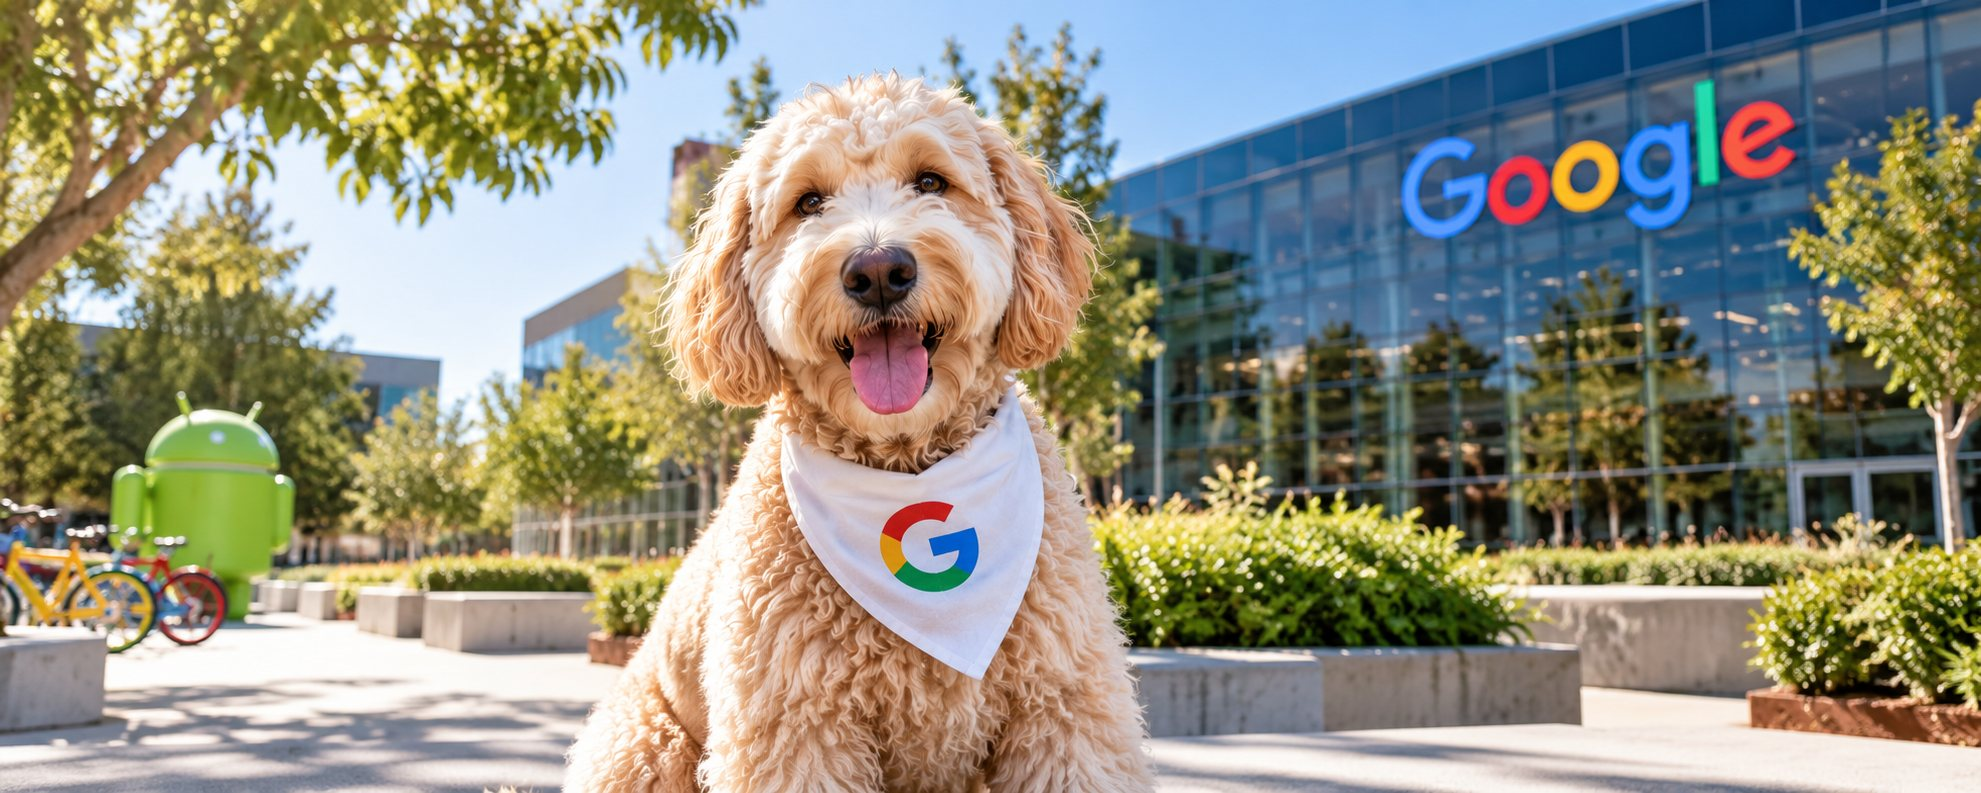
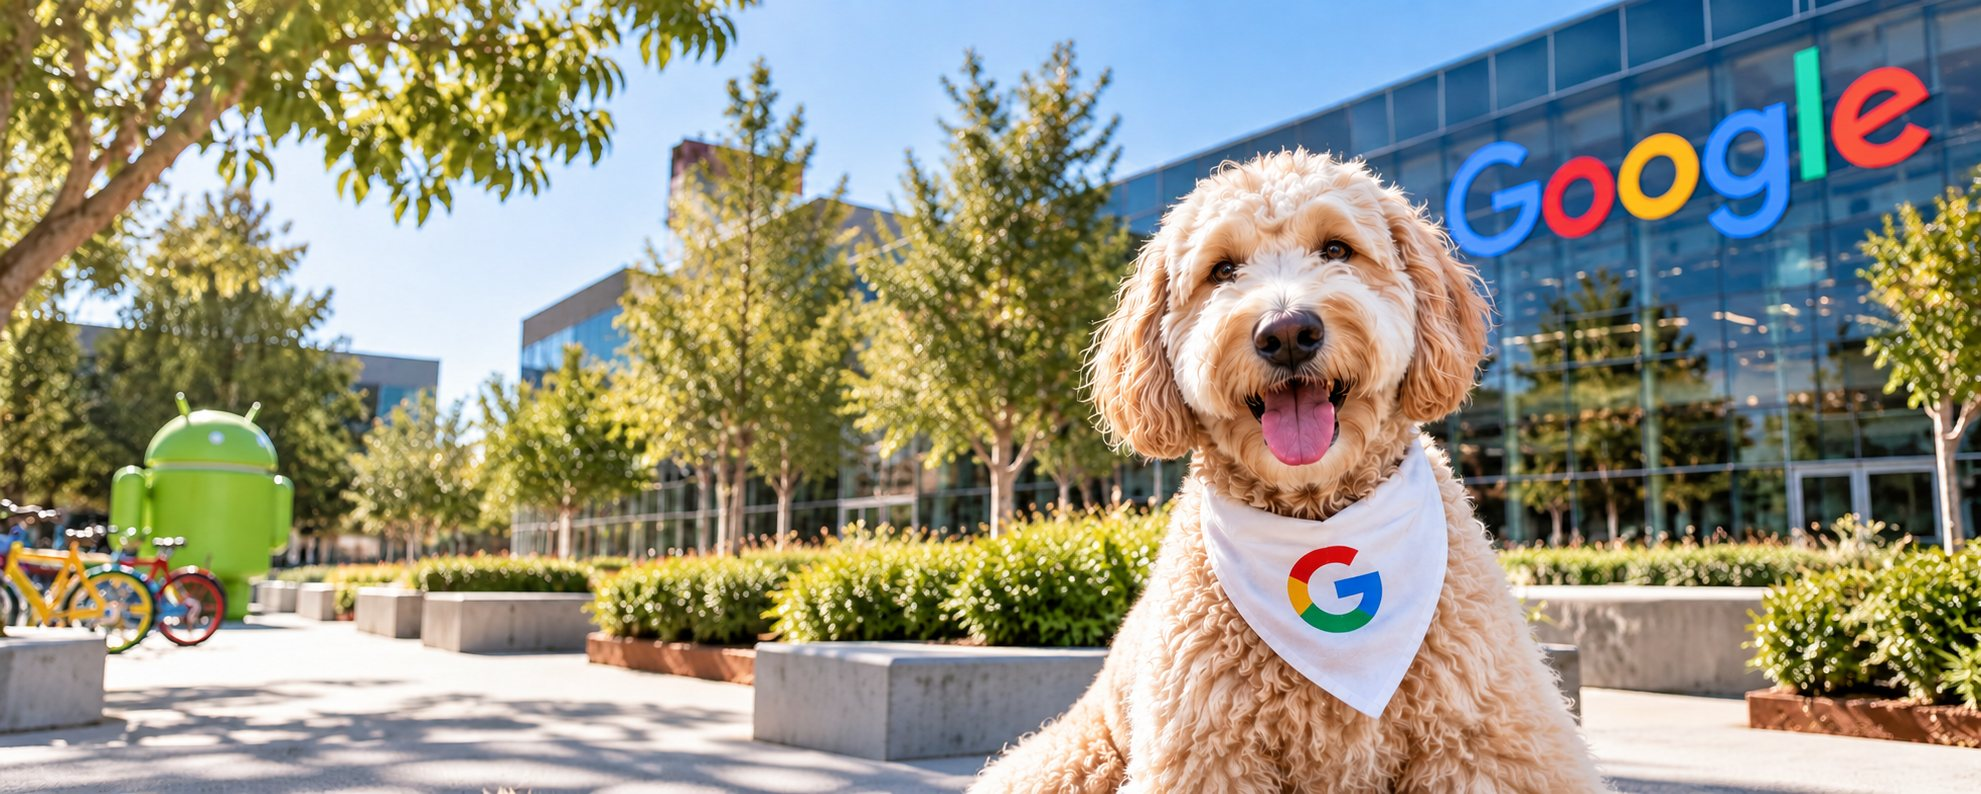
New hero frame; the CEO card, labelled; card order; headline stop
HERO. Re-derived from the replacement doogler_hero.png (1981×794). The dog
now sits right with the plaza open at the left, which is what the copy
overlays, so the scrim no longer has to push the frame across —
background-position goes back to centre. 2.4 MB of PNG → 259 KB of WebP,
with the JPEG twin, and images/social.jpg re-letterboxed from the new
frame onto 1200×630.

THE "BEST WORK PARTNER" CARD now carries images/doogler_photo1.png beside
the quote, across a row of its own — which is what moves "Doogler in
training" down to the line below, as asked.

The picture carries a small AI-GENERATED tag, set ON the image rather than
beside it so it cannot be read apart from what it describes. That label is
the reason the illustration can be here: the quote is genuine and sourced,
but the picture is a generated image of a real, named, living person, and
unlabelled on a page selling a token it is something a viewer would
reasonably take as a real photograph of him with this project. Labelled,
it is an illustration next to a quote anyone can go and check — the three
primary posts are still chips under it, and the card still says the quote
is about his dog and not about this token. His real photographs are on
those posts; this does not stand in for them.

The signature the mockup draws under the quote is still not built.

STONKS LOGO to 36px. HEADLINE loses the full stop after $GOOGL.

AND A REAL BUG, found while stamping: scripts/stamp.mjs rewrote ?v= in
[…]

diff --git a/index.html b/index.html
@@ -59,10 +59,10 @@
 
      The ?v= below is what makes a browser let go of the icon it has cached;
      node scripts/stamp.mjs moves all of them together. -->
-<link rel="icon" href="favicon.ico?v=9" sizes="any">
-<link rel="icon" type="image/png" href="images/favicon.png?v=9">
-<link rel="apple-touch-icon" href="images/apple-touch-icon.png?v=9">
-<link rel="manifest" href="site.webmanifest?v=9">
+<link rel="icon" href="favicon.ico?v=10" sizes="any">
+<link rel="icon" type="image/png" href="images/favicon.png?v=10">
+<link rel="apple-touch-icon" href="images/apple-touch-icon.png?v=10">
+<link rel="manifest" href="site.webmanifest?v=10">
 
 <!-- One face — Inter — across five weights. 800 is not decoration: the
      wordmark and the section headings are set in it, and Inter's 700 is
@@ -72,7 +72,7 @@
 <link rel="preconnect" href="https://fonts.gstatic.com" crossorigin>
 <link rel="stylesheet" href="https://fonts.googleapis.com/css2?family=Inter:wght@400;500;600;700;800&display=swap">
 
-<link rel="stylesheet" href="assets/css/styles.css?v=9">
+<link rel="stylesheet" href="assets/css/styles.css?v=10">
 </head>
 
 <!-- No `anim` class here on purpose: the entrance animation hides everything
@@ -89,7 +89,7 @@
     <a class="brand" href="#top" aria-label="Jeffree $DOOGLER — home">
       <!-- The supplied mark, trimmed and squared — see images/src/README.md.
            A full scene at 40px is a smudge; the head still reads. -->
-      <img class="brand__avatar" src="images/avatar.png?v=9" width="256" height="256"
+      <img class="brand__avatar" src="images/avatar.png?v=10" width="256" height="256"
            alt="" decoding="async">
       <span class="brand__name">
         <!-- The wordmark: DOOGLER in Google's four accent colours, cycling in
@@ -179,7 +179,7 @@
 
       <h1 class="hero__title" data-rise>
         <span class="hero__line">Buy <span class="wordmark wordmark--xl" aria-label="$DOOGLER"><span aria-hidden="true">$</span><span class="g-b" aria-hidden="true">D</span><span class="g-r" aria-hidden="true">O</span><span class="g-y" aria-hidden="true">O</span><span class="g-b" aria-hidden="true">G</span><span class="g-g" aria-hidden="true">L</span><span class="g-r" aria-hidden="true">E</span><span class="g-y" aria-hidden="true">R</span></span></span>
-        <span class="hero__line">Get <span class="wordmark wordmark--xl" aria-label="$GOOGL"><span aria-hidden="true">$</span><span class="g-b" aria-hidden="true">G</span><span class="g-r" aria-hidden="true">O</span><span class="g-y" aria-hidden="true">O</span><span class="g-b" aria-hidden="true">G</span><span class="g-g" aria-hidden="true">L</span></span>.</span>
+        <span class="hero__line">Get <span class="wordmark wordmark--xl" aria-label="$GOOGL"><span aria-hidden="true">$</span><span class="g-b" aria-hidden="true">G</span><span class="g-r" aria-hidden="true">O</span><span class="g-y" aria-hidden="true">O</span><span class="g-b" aria-hidden="true">G</span><span class="g-g" aria-hidden="true">L</span></span></span>
       </h1>
 
       <!-- The mockup's four lines. "converted into $GOOGL stock" is the one
@@ -386,44 +386,56 @@
         </figcaption>
       </figure>
 
-      <!-- The mockup puts a photograph of Sundar Pichai here, captioned "Best
-           work partner!" over his signature and a date.
+      <!-- The mockup's "Best work partner!" card, with its photograph.
 
-           THE QUOTE IS REAL and is now sourced — it is his own caption on his
-           own post about his own dog, and it is built. What is not built is
-           the rest of that card:
+           THE QUOTE IS GENUINE and sourced — his own caption, on his own post,
+           about his own dog — so it is quoted with the three primary posts
+           linked beside it, and it says plainly that it is about the dog and
+           not about this token.
 
-             · the photograph, because images/doogler_photo1.png is a
-               SYNTHETIC image of him. His real photographs are on the posts
-               linked below, which is where a reader can see them; a generated
-               one depicts a scene that never happened.
-             · the signature, because a reproduced signature of a real person
-               adds nothing the attribution does not, and is the one element
-               on such a card that is forgery-shaped rather than merely
-               promotional.
+           THE PHOTOGRAPH IS NOT A PHOTOGRAPH. images/doogler_photo1.png is a
+           generated image of a real, named, living person, and it is labelled
+           as one on the card itself. That label is the whole reason it can be
+           here: unlabelled, a synthetic picture of a CEO on a page selling a
+           token is something a viewer would reasonably take as a real photo of
+           him with this project, which is exactly the impression nothing on
+           this page is entitled to create. Labelled, it is an illustration
+           next to a quote anyone can go and check.
 
-           What is left is stronger than the mockup anyway: the quote, said
-           plainly to be about his dog rather than about this token, with the
-           primary sources beside it so anyone can check it in one click. -->
-      <figure class="card card--quote card--pichai">
-        <blockquote>
-          <p>“Best work partner”</p>
-        </blockquote>
-        <figcaption>
-          <b>Sundar Pichai</b>, posting his labradoodle <b>Jeffree</b>, April 2024.
-          About his dog — not about this token.
-          <span class="card__srcs">
-            <a href="https://www.instagram.com/p/C6Xu6o0LFgZ/" target="_blank" rel="noopener noreferrer">Instagram</a>
-            <a href="https://www.instagram.com/p/Chu1J9qp1ti/" target="_blank" rel="noopener noreferrer">Instagram, 2022</a>
-            <a href="https://x.com/sundarpichai/status/1960342316415087049" target="_blank" rel="noopener noreferrer">X</a>
-          </span>
-        </figcaption>
+           His real photographs are on the posts linked below; this does not
+           stand in for them.
+
+           Still NOT built: the signature the mockup draws under the quote. A
+           reproduced signature adds nothing the attribution does not, and it
+           is the one element of that card that is forgery-shaped rather than
+           promotional. -->
+      <figure class="card card--ceo">
+        <div class="card__media">
+          <picture>
+            <source srcset="images/photo_ceo.webp?v=10" type="image/webp">
+            <img src="images/photo_ceo.jpg?v=10" width="800" height="800" loading="lazy" decoding="async"
+                 alt="An AI-generated illustration of Sundar Pichai with a cream labradoodle.">
+          </picture>
+          <span class="card__tag">AI-generated</span>
+        </div>
+        <div class="card__body">
+          <blockquote><p>“Best work partner”</p></blockquote>
+          <figcaption>
+            <b>Sundar Pichai</b>, posting his labradoodle <b>Jeffree</b>, April 2024.
+            About his dog — not about this token.
+            <span class="card__srcs">
+              <a href="https://www.instagram.com/p/C6Xu6o0LFgZ/" target="_blank" rel="noopener noreferrer">Instagram</a>
+              <a href="https://www.instagram.com/p/Chu1J9qp1ti/" target="_blank" rel="noopener noreferrer">Instagram, 2022</a>
+              <a href="https://x.com/sundarpichai/status/1960342316415087049" target="_blank" rel="noopener noreferrer">X</a>
+            </span>
+          </figcaption>
+        </div>
       </figure>
 
       <figure class="card card--photo card--cap">
         <picture>
-          <source srcset="images/photo_cap.webp?v=9" type="image/webp">
-          <img src="images/photo_cap.jpg?v=9" width="800" height="800" loading="lazy" decoding="async"
+          <source srcset="images/photo_cap.webp?v=10" type="image/webp">
+          <img src="images/photo_cap.jpg?v=10" width="800" height="800" loading="lazy" decoding="async"
                alt="Jeffree sitting on grass beside a multicoloured Doogler propeller cap.">
         </picture>
         <figcaption>Doogler in training <span aria-hidden="true">🐾</span></figcaption>
@@ -431,8 +443,8 @@
 
       <figure class="card card--photo card--jump">
         <picture>
-          <source srcset="images/photo_jump.webp?v=9" type="image/webp">
-          <img src="images/photo_jump.jpg?v=9" width="800" height="800" loading="lazy" decoding="async"
+          <source srcset="images/photo_jump.webp?v=10" type="image/webp">
+          <img src="images/photo_jump.jpg?v=10" width="800" height="800" loading="lazy" decoding="async"
                alt="Jeffree in a blue cape, mid-jump over an agility bar.">
         </picture>
         <figcaption>Full send, every time</figcaption>
@@ -479,7 +491,7 @@
 
     <div class="foot__left">
       <a class="brand brand--foot" href="#top">
-        <img class="brand__avatar" src="images/avatar.png?v=9" width="256" height="256" alt="" decoding="async">
+        <img class="brand__avatar" src="images/avatar.png?v=10" width="256" height="256" alt="" decoding="async">
         <span class="brand__name">
           <span class="wordmark" aria-label="Jeffree $DOOGLER">Jeffree&nbsp;<span aria-hidden="true">$</span><span class="g-b" aria-hidden="true">D</span><span class="g-r" aria-hidden="true">O</span><span class="g-y" aria-hidden="true">O</span><span class="g-b" aria-hidden="true">G</span><span class="g-g" aria-hidden="true">L</span><span class="g-r" aria-hidden="true">E</span><span class="g-y" aria-hidden="true">R</span></span>
           <span class="foot__tag">Buy $DOOGLER. Get $GOOGL.</span>
@@ -492,12 +504,12 @@
     <div class="foot__mid">
       <a class="lockup lockup--foot" id="link-launched" href="#" target="_blank" rel="noopener noreferrer">
         <span class="lockup__kicker">Launched on</span>
-        <img class="lockup__logo lockup__logo--stonks" src="images/stonkex_button.png?v=9"
+        <img class="lockup__logo lockup__logo--stonks" src="images/stonkex_button.png?v=10"
              width="550" height="112" alt="Stonks.Exchange" decoding="async">
       </a>
       <a class="lockup lockup--foot" id="link-rewards" href="#" target="_blank" rel="noopener noreferrer">
         <span class="lockup__kicker">Holder rewards powered by</span>
-        <img class="lockup__logo" src="images/stockify_logo.png?v=9"
+        <img class="lockup__logo" src="images/stockify_logo.png?v=10"
              width="1250" height="408" alt="Stockify" decoding="async">
       </a>
     </div>
@@ -611,7 +623,7 @@
 <!-- ?v= is the cache buster: run `node scripts/stamp.mjs` on every deploy,
      which moves every ?v= here and `version` in config.js together. Skip it
      and a CDN keeps serving the previous config.js and app.js. -->
-<script src="config.js?v=9"></script>
-<script src="assets/js/app.js?v=9"></script>
+<script src="config.js?v=10"></script>
+<script src="assets/js/app.js?v=10"></script>
 </body>
 </html>

diff --git a/assets/css/styles.css b/assets/css/styles.css
@@ -263,14 +263,14 @@ a { color: inherit; text-decoration: none; }
    background entirely on some builds, and the whole hero would go white. */
 .hero {
   position: relative;
-  background-image: url("../../images/hero.webp?v=4");
+  background-image: url("../../images/hero.webp?v=10");
   background-size: cover;
-  background-position: 62% center;
+  background-position: center;
   isolation: isolate;
 }
 /* Anything without WebP still gets a photograph rather than a blank band. */
 @supports not (background-image: url("a.webp")) {
-  .hero { background-image: url("../../images/hero.jpg?v=4"); }
+  .hero { background-image: url("../../images/hero.jpg?v=10"); }
 }
 
 .hero::before {
@@ -455,7 +455,7 @@ a { color: inherit; text-decoration: none; }
    it at the root; failing that, `background: #1b1f27; padding: 6px 10px;` on
    this rule puts back the dark plate the mark was drawn for, where the same
    fill measures 14:1. */
-.lockup__logo--stonks { height: 30px; }
+.lockup__logo--stonks { height: 36px; }
 /* ==========================================================================
    STATS STRIP — one white card, six tiles
    ========================================================================== */
@@ -669,9 +669,10 @@ a { color: inherit; text-decoration: none; }
   transform: rotate(-1.4deg);
   padding: 16px 18px;
 }
-/* The Code of Conduct quote is the long one and carries the section, so it
-   keeps the full width; the Pichai card sits in the row below it. */
-.card--quote:not(.card--pichai) { grid-column: 1 / -1; }
+/* The Code of Conduct quote carries the section, so it keeps the full width;
+   the Pichai card takes the row below it, and the two photographs the row
+   after that. */
+.card--quote { grid-column: 1 / -1; }
 .card--quote blockquote { margin: 0 0 10px; }
 .card--quote p {
   margin: 0;
@@ -690,18 +691,58 @@ a { color: inherit; text-decoration: none; }
 }
 .card--quote figcaption { font-size: 12px; color: var(--muted); }
 .card--quote figcaption b { color: var(--ink-2); font-weight: 600; }
+.card--ceo figcaption a,
 .card--quote figcaption a {
   color: var(--g-blue);
   text-decoration: underline;
   text-underline-offset: 2px;
 }
 
-/* The Pichai card. Its quote is the short one, so it is set larger — the card
-   is a pull-quote rather than a paragraph — and its sources sit under the
-   attribution as small chips, because being able to check the quote in one
-   click is the entire reason the card is allowed to exist. */
-.card--pichai { transform: rotate(1.6deg); }
-.card--pichai blockquote p { font-size: 19px; font-weight: 600; font-style: italic; }
+/* The Pichai card: illustration at the left, quote and sources at the right,
+   across a row of its own. Its quote is the short one, so it is set larger —
+   the card is a pull-quote rather than a paragraph — and the sources sit
+   under the attribution as chips, because being able to check the quote in
+   one click is the entire reason the card is allowed to exist. */
+.card--ceo {
+  grid-column: 1 / -1;
+  display: grid;
+  grid-template-columns: minmax(0, 148px) minmax(0, 1fr);
+  gap: 16px;
+  align-items: center;
+  padding: 12px;
+  transform: rotate(1.4deg);
+}
+.card__media { position: relative; }
+.card__media img { width: 100%; height: auto; border-radius: 8px; display: block; }
+
+/* The label that lets the illustration be here at all. Small, but ON the
+   picture rather than beside it, so it cannot be read apart from the thing it
+   describes. */
+.card__tag {
+  position: absolute;
+  left: 6px; bottom: 6px;
+  padding: 2px 7px;
+  font-size: 9.5px;
+  font-weight: 700;
+  letter-spacing: .04em;
+  text-transform: uppercase;
+  color: #fff;
+  background: rgba(12, 13, 16, .72);
+  border-radius: 999px;
+  -webkit-backdrop-filter: blur(4px);
+  backdrop-filter: blur(4px);
+}
+
+.card--ceo blockquote { margin: 0 0 8px; }
+.card--ceo blockquote p {
+  margin: 0;
+  font-size: 19px;
+  font-weight: 600;
+  font-style: italic;
+  color: var(--ink);
+}
+.card--ceo figcaption { font-size: 12px; line-height: 1.5; color: var(--muted); }
+.card--ceo figcaption b { color: var(--ink-2); font-weight: 600; }
 .card__srcs {
   display: flex;
   flex-wrap: wrap;
@@ -938,7 +979,7 @@ a { color: inherit; text-decoration: none; }
     display: block;
     margin-top: 22px;
     aspect-ratio: 1981 / 793;
-    background-image: url("../../images/hero.webp?v=4");
+    background-image: url("../../images/hero.webp?v=10");
     background-size: cover;
     background-position: 62% center;
   }
@@ -954,6 +995,8 @@ a { color: inherit; text-decoration: none; }
 
   .collage { grid-template-columns: minmax(0, 1fr); }
   .card--cap, .card--jump { margin-top: 0; }
+  .card--ceo { grid-template-columns: minmax(0, 1fr); gap: 12px; }
+  .card__media { max-width: 180px; }
 
   .banner { flex-direction: column; align-items: flex-start; }
   .banner__line, .banner__mark { margin-left: 0; text-align: left; }

diff --git a/config.js b/config.js
@@ -16,7 +16,7 @@ window.SITE_CONFIG = {
      a browser actually has rather than guessing at a cache. Bump it together
      with the ?v= on the script tags in index.html whenever you deploy —
      `node scripts/stamp.mjs` moves all of them at once. */
-  version: '9',
+  version: '10',
 
   /* ---- Token ---------------------------------------------------------- */
 
